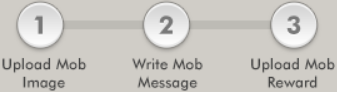
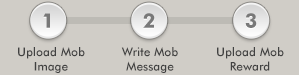
start a mob section done

diff --git a/main.css b/main.css
@@ -93,7 +93,7 @@ img.downarrow {
 
 body > .header {
   height: 60px;
-  background-image: url(images/headerbackground.png); 
+  background: url(images/headerbackground.png) no-repeat top left; 
   color: white;
   font-size: 17px;
   text-shadow: 0 1px black,
@@ -415,8 +415,12 @@ div .button.orange-button {
 }
 
 .upcoming-list {
-  width: 618px;
-  margin: 10px;
+  width: 612px;
+  margin: 20px 0 10px 20px;
+}
+
+.upcoming-list .header {
+  font-size: 24px;
 }
 
 .upcoming-list-row-data {
@@ -425,13 +429,21 @@ div .button.orange-button {
 }
 
 .start-mob {
-  width: 298px;
-  margin: 10px;
+  width: 300px;
+  margin: 21px 0 21px 16px;
   background-color: rgb(208, 205, 199);
 }
 
+.start-mob .header {
+  color: white;
+  text-shadow: 0 1px rgb(145, 143, 139);
+  margin-top: 15px;
+  font-size: 25px;
+  text-align: center;
+}
+
 .start-mob > img {
-  width: 298px;
+  width: 300px;
   height: 100px;
 }
 
@@ -440,15 +452,26 @@ div .button.orange-button {
 }
 
 .howtostartmob img {
-  width: 298px;
-  margin: 20px 0px;
+  width: 300px;
+  margin: 5px 0px;
 }
 
 .start-mob .button {
-  background-color: grey;
+  font-size: 23px;
+  text-shadow: 0 1px white;
+  width: 277px;
+  height: 60px;
+  line-height: 60px;
+  border: 1px solid rgb(126, 123, 119);
+  background-color: rgb(219, 217, 212);
+  margin: 4px 10px 11px 10px;
+  box-shadow: inset 0 2px 0px -1px white; 
+  color: rgb(48, 129, 174);
+  text-align: center;
 }
 
 .footer {
+  margin-top: 40px;
   background: rgb(84, 83, 82);
   color: white;
   text-shadow: 0 1px black;
